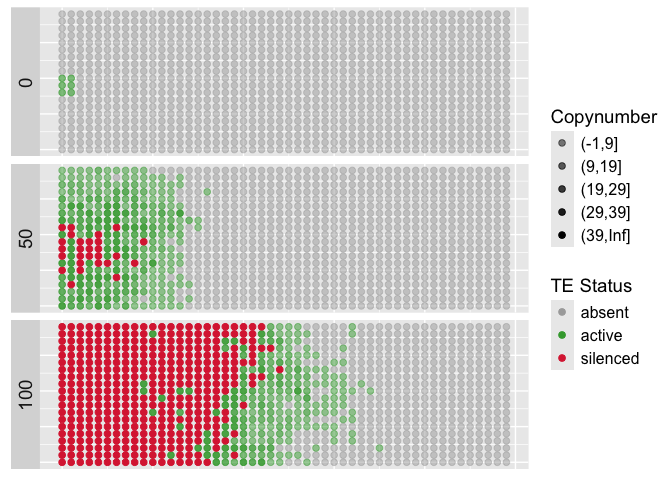
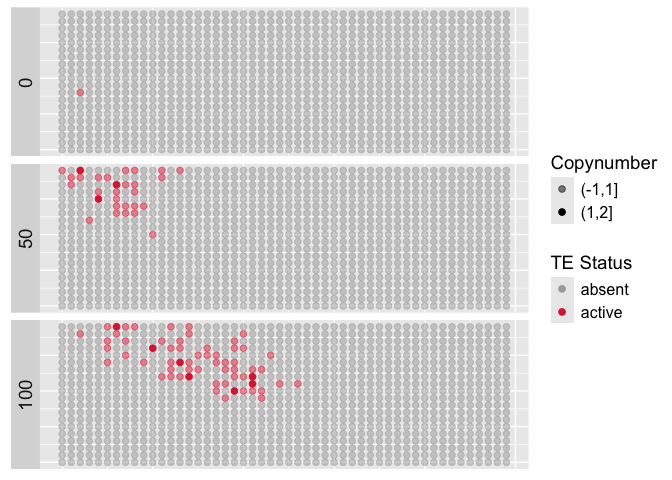
inactive TE ro

Changed region(s): [[0.0625, 0.3438, 0.5625, 0.9688], [0.8125, 0.2188, 0.9688, 0.7812], [0.0625, 0.1562, 0.125, 0.2188]]

diff --git a/doc/simple.md b/doc/simple.md
@@ -12,6 +12,16 @@ start to the end.
 
 ## no host defence - mate radius 1
 
+We start with a simple scenario. A TE with transposition rate `u=0.1` is
+spreading in a spatial population of size 50x20 (hence N=1000). No host
+defence is simulated, so TE copy numbers will increase exponentially.
+The invasion is triggered in a small patch in the left corner (several
+individuals each have 10 insertions at different genomic positions).
+Discrete generations are used. Each individual is replaced at each
+generation. A mate radius of 1 is used, hence for a focal site in the
+grid, the parents for the individual in the next generation (at the
+site) will be found within a radius of 1 in the y-x grid.
+
 ``` bash
 # simulation code
 ./invade --seed 5 --genome MB:1,1 --rr 4,4 --u 0.1 --grid-x 50 --grid-y 20 --mate-radius 1 --epi-inherit none --basepop 9-11,1-2,10 --rep 1 --steps 5 --gen 100 --file-spatial simple.txt 
@@ -68,6 +78,11 @@ insertions per diploid individual).
 
 ## no host defence - mate radius 2
 
+Same as before, sole difference a mate radius of 2 is used. So potential
+parents will be found in a larger distance. As a result the TE will
+spread faster. So the mate radius is like the migration rate in the
+grid.
+
 ``` bash
 ./invade --seed 5 --genome MB:1,1 --rr 4,4 --u 0.1 --grid-x 50 --grid-y 20 --mate-radius 2 --epi-inherit none --basepop 9-11,1-2,10 --rep 1 --steps 5 --gen 100 --file-spatial simple-mr2.txt 
 ```
@@ -85,6 +100,9 @@ insertions per diploid individual).
 **Note** with a larger mate radius the TE spreads faster
 
 ## no host defence - mate radius ‘panmictic’
+
+Same as before only difference the mate radius is infinite, hence we
+have simulations of a panmictic population.
 
 ``` bash
 ./invade --seed 5 --genome MB:1,1 --rr 4,4 --u 0.1 --grid-x 50 --grid-y 20 --mate-radius pan --epi-inherit none --basepop 9-11,1-2,10 --rep 1 --steps 5 --gen 100 --file-spatial simple-pan.txt
@@ -107,9 +125,49 @@ mates. Hence, the coordinates have **no** impact in the panmictic
 simulations. As a result the TE spreads quite stochastically in the
 spatial grid.
 
+## no host defence - inactive TE
+
+We simulate an **inactive TE** with transpostion rate `u=0`. The TE is
+thus entirely inactive and just subject to genetic drift. We trigger
+this ‘invasion’ in a single individual having a single insertion.
+Importantly this scenario will lead to an early loss of the TE in most
+cases. Therfore we use the parameter `--condinv` which performs
+simulations of additional replicates until the TE is still present at
+the end (required generations)
+
+``` bash
+./invade --seed 5 --genome MB:1,1 --rr 4,4 --u 0.0 --grid-x 50 --condinv --grid-y 20 --mate-radius 1 --epi-inherit none --basepop '9,3,1' --rep 1 --steps 5 --gen 100 --file-spatial simple-inactive.txt 
+```
+
+**novel parameters explained**
+
+- –u 0.0 transposition rate is zero; no host defence required, as the TE
+  is already inactive.
+- –basepop ‘9,3,1’: the invasion will be triggered in a single
+  individual having a single TE copy; y-coordinate 9 and x-coordinate 3
+- –condinv flag; conditional on invasion; this is a convenience method;
+  inactive TEs will typically be quickly lost from the population; **56
+  simulations were necessary** so that at least some TE copies remained
+  by generation 100.
+
+![](simple_files/figure-gfm/unnamed-chunk-8-1.png)<!-- --> **Note** this
+scenario also leads to patchynes. but importantly 56 simulations were
+necessary to obtain a successful invasion where the TE was not lost by
+generation 100. **If this is the reason for the patchyness the amount of
+HT to Arabidopsis must be staggeringly high**. also please ignore the
+label active (it means no host defence but thats not necessary for
+inactive TEs)
+
 # Host defence
 
 ## host defence - no epigenetic inherited silencing
+
+Simulations with a host defence. We assume that any individual having
+`--trigger-defense 40` TE insertions triggers the de novo silencing of
+the TE. The insertions will be at entirely different genomic sites. We
+assume no epigenetic inheritance of the silencing, so only indivdiuals
+with 40 or more copies will have silenced TEs (silenced means
+transposition rate `u=0.0`)
 
 ``` bash
 ./invade --seed 5 --genome MB:1,1 --rr 4,4 --u 0.1 --grid-x 50 --grid-y 20 --mate-radius 1 --epi-inherit none --basepop 9-11,1-2,10 --rep 1 --steps 5 --gen 100 --trigger-defense 40 --file-spatial simple-defence.txt
@@ -123,7 +181,7 @@ spatial grid.
   transposition rate of `--uc` which is 0.0 by default (i.e. no
   activity).
 
-![](simple_files/figure-gfm/unnamed-chunk-8-1.png)<!-- -->
+![](simple_files/figure-gfm/unnamed-chunk-10-1.png)<!-- -->
 
 **Note** The TE starts spreading at a small patch by generation 1. By
 generation 50 already several individuals have triggered the host
@@ -134,6 +192,11 @@ more TE copies can have the silenced TEs! (de novo triggered host
 defense).
 
 ## host defence - uniparental epigenetic silencing inheritance
+
+Same as before but we assume that the silencing can be inherited. We
+assume silencing is maternally transmitted as in Drosophila. The
+silencing state can also be lost in individuals not having a single TE
+insertions.
 
 ``` bash
 ./invade --seed 5 --genome MB:1,1 --rr 4,4 --u 0.1 --grid-x 50 --grid-y 20 --mate-radius 1 --epi-inherit dros --basepop 9-11,1-2,10 --rep 1 --steps 5 --gen 100 --trigger-defense 40 --file-spatial simple-defence-dros.txt 
@@ -152,13 +215,17 @@ defense).
   not transmit the silencing status. TEs silenced in the father, will
   thus be active in the offspring (unless the mother has silenced TEs).
 
-![](simple_files/figure-gfm/unnamed-chunk-10-1.png)<!-- -->
+![](simple_files/figure-gfm/unnamed-chunk-12-1.png)<!-- -->
 
 **Note** As the major difference to the previous scenario
 (`--epi-inherit dros`), even individuals with less than 40 TEs may have
 silenced TEs.
 
 ## host defence - biparental epigenetic silencing inheritance
+
+In this scenario we assume that epigenetic silencing of a TE is
+transmitted by both parents as in Arabidopsis. The silencing state can
+also be lost in individuals not having a single TE insertions.
 
 ``` bash
 ./invade --seed 5 --genome MB:1,1 --rr 4,4 --u 0.1 --grid-x 50 --grid-y 20 --mate-radius 1 --epi-inherit ara --basepop 9-11,1-2,10 --rep 1 --steps 5 --gen 100 --trigger-defense 40 --file-spatial simple-defence-ara.txt 
@@ -172,7 +239,7 @@ silenced TEs.
   means that the silencing will spread with all gametes. The silencing
   will thus spread like the a very effective genetic drive.
 
-![](simple_files/figure-gfm/unnamed-chunk-12-1.png)<!-- -->
+![](simple_files/figure-gfm/unnamed-chunk-14-1.png)<!-- -->
 
 **Note** The epigenetic silencing is spreading very fast (as expected
 for an efficient drive system). In fact the silencing is spreading
@@ -180,6 +247,9 @@ faster than the TE. Hence by generation 100 the TE is silenced in all
 individuals. A patchy TE distribution is thus observed.
 
 ## host defence - biparental epigenetic silencing and selfing
+
+Same as before but we now assume a selfing rate of 95% (ie mother and
+father are the same individual, but both producing recombined gametes).
 
 ``` bash
 ./invade --seed 5 --genome MB:1,1 --rr 4,4 --u 0.1 --grid-x 50 --grid-y 20 --mate-radius 1 --epi-inherit ara --basepop 9-11,1-2,10 --rep 1 --steps 5 --gen 100 --trigger-defense 40 --selfing-rate 0.95 --condinv --file-spatial simple-defence-ara-self.txt 
@@ -199,13 +269,23 @@ individuals. A patchy TE distribution is thus observed.
   seeds. With this option simulations are performed until the required
   number of simulations was successful (`--rep`).
 
-![](simple_files/figure-gfm/unnamed-chunk-14-1.png)<!-- -->
+![](simple_files/figure-gfm/unnamed-chunk-16-1.png)<!-- -->
 
 **Note** With selfing and biparental inheritance TEs are silenced very
 quickly and thus only have a limited capacity to spread in the spatial
 population.
 
 # Negative selection against inactive TEs
+
+A different scenario with negative selection against the TE. Here we
+assume that the TE already managed to invade the population as we start
+the simulations with a base population where each indivdiual has exactly
+40 silenced TE copies (`--basepop "1-20,1-50,40'`). Note that all
+insertions will largely be at different genomic sites, so there are no
+fixed insertions (unless by chance, very unlikely). Since no insertion
+is fixed negative selection may potentially remove insertions. We
+further assume a negative effect per TE insertion of `--s 0.1` and
+additive effects in heterozygous individuals (`--h 0.5`).
 
 ## negative selection - biparental inheritance
 
@@ -229,15 +309,24 @@ population.
   (unless individuals have by chance the same insertion site in our 2Mb
   genome).
 
-![](simple_files/figure-gfm/unnamed-chunk-16-1.png)<!-- -->
+![](simple_files/figure-gfm/unnamed-chunk-18-1.png)<!-- -->
 
 **Note** selection against TEs may lead to a patchy distribution **when
 TEs are silenced biparental**. Importantly in this scenario we assumed
 i) that the TE family was present in all ancestors of the extant
 population and ii) that the TE was silenced in the ancestors and iii)
-biparental inheritance of the silencing.
+biparental inheritance of the silencing. One conceptual problem with
+this scenario is, that we need to explain how the TE did manage to
+spread to all individuals in the base-population, given the pronounced
+negative effect. Possible answers are demographic changes or
+environmental changes between the ancestral population (having many
+insertions) and the simulated population, eg a lower ancestral
+population size during the spread or a smaller negative effect during
+the spread.
 
 ## negative selection - uniparental inheritance
+
+Same scenario but uniparental inheritance of the TE (as in Drosophila).
 
 ``` bash
 ./invade --seed 5 --genome MB:1,1 --rr 4,4 --u 0.1 --grid-x 50 --grid-y 20 --mate-radius 1 --epi-inherit dros --basepop "1-20,1-50,40'" --rep 1 --steps 5 --gen 400 --trigger-defense 40 --s 0.1 --h 0.5 --file-spatial simple-negsel-dros.txt 
@@ -250,7 +339,7 @@ combination of parameters, i.e. selection against TEs combined with
 uniparental inheritance `--epi-inherit dros`. We again assumed that the
 TE is present and silenced in all ancestors of the extant population.
 
-![](simple_files/figure-gfm/unnamed-chunk-18-1.png)<!-- -->
+![](simple_files/figure-gfm/unnamed-chunk-20-1.png)<!-- -->
 
 **Now this is a surprise to me! Negative selection against TEs combined
 with uniparental silencing does not lead to patchyness** Actually TEs
@@ -260,9 +349,15 @@ fascinating, but makes sense. In this scenario the silencing can be lost
 as soon as negative selection reduced the load of TEs to such an extend
 that some individuals end up with zero TEs. Now the TE can be
 reactivated in crosses with mothers not having the TE and fathers having
-the TE (fathers transmit the TE but not the silencing).
+the TE (fathers transmit the TE but not the silencing). But importantly
+if we increase the negative effect of TEs further (`u>0.1`) patchyness
+will also be observed in this scenario.
 
 # Population structure - uniparental inheritance
+
+Now we introduce population structure. We specify a mate barrier at
+x-coordinates 25. Inviduals with x-coordinates 25 and 26 will have a 99%
+reduced chance to mate.
 
 ``` bash
 ./invade --seed 5 --genome MB:1,1 --rr 4,4 --u 0.1 --grid-x 50 --grid-y 20 --mate-radius 1 --epi-inherit dros --basepop 9-11,1-2,10 --rep 1 --steps 5 --gen 100 --trigger-defense 40 --mate-barrier 25 --barrier-strength 0.99 --file-spatial simple-matebar.txt 
@@ -279,7 +374,7 @@ the TE (fathers transmit the TE but not the silencing).
 - –barrier-strength 0.99: a 99% reduction in mating-probabilty for
   individuals on opposite ends of the mating-barrier.
 
-![](simple_files/figure-gfm/unnamed-chunk-20-1.png)<!-- -->
+![](simple_files/figure-gfm/unnamed-chunk-22-1.png)<!-- -->
 
 **Note** the coordinates of the mate barrier (x-position 25) can be
 clearly discerned at generation 100; Also note that most individuals in
